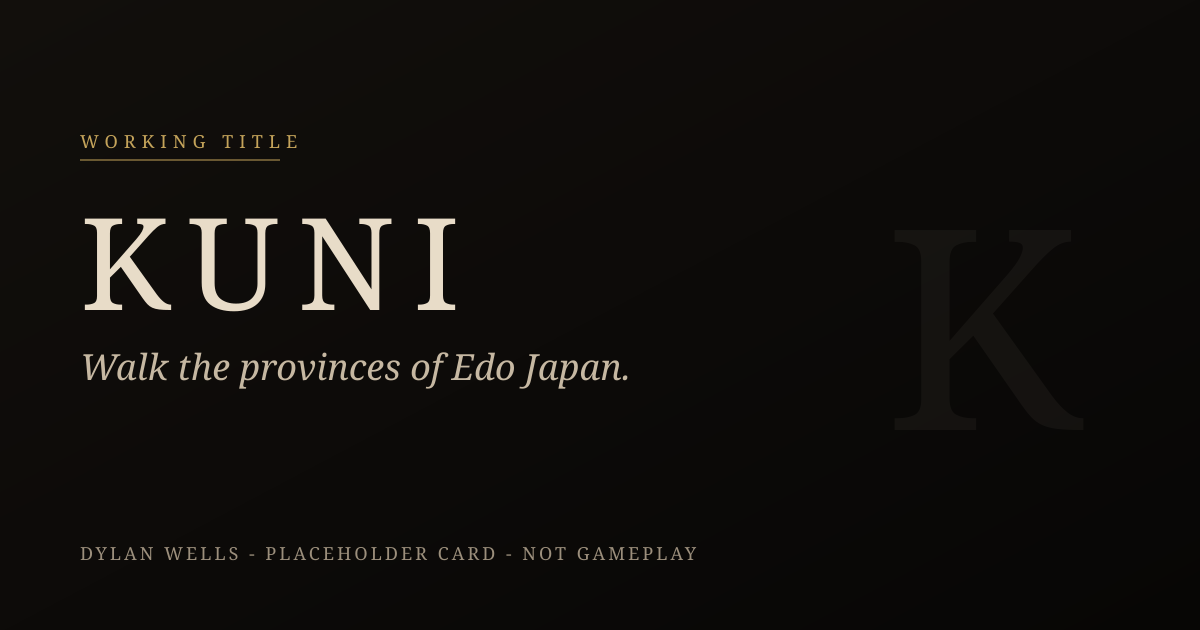
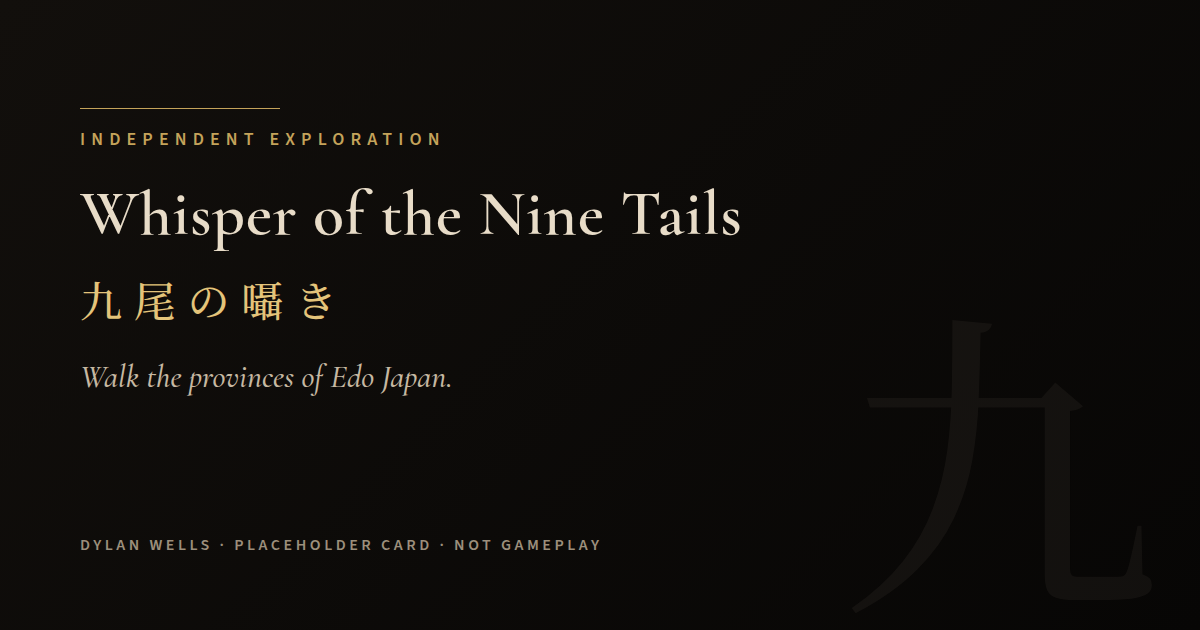
Rename storefront from Kuni to Whisper of the Nine Tails
Replace the working title with the official bilingual name across
user-facing copy and SEO, while keeping the GitHub/Cloudflare project
as kuni-storefront and leaving historical kuni (provinces) intact.

diff --git a/src/styles/global.css b/src/styles/global.css
@@ -161,19 +161,17 @@ main {
   display: flex;
   flex-direction: column;
   font-family: var(--font-display);
-  font-size: 1.35rem;
-  letter-spacing: 0.18em;
-  text-transform: uppercase;
-  line-height: 1;
+  font-size: 1.05rem;
+  letter-spacing: 0.04em;
+  line-height: 1.15;
 }
 
 .brand-note {
-  margin-top: 0.28rem;
-  font-family: var(--font-body);
-  font-size: 0.62rem;
+  margin-top: 0.22rem;
+  font-family: var(--font-jp);
+  font-size: 0.68rem;
   letter-spacing: 0.16em;
-  color: var(--paper-dim);
-  text-transform: uppercase;
+  color: var(--gold);
 }
 
 .site-nav {
@@ -325,7 +323,7 @@ main {
 
 .hero-copy {
   position: relative;
-  max-width: 38rem;
+  max-width: 42rem;
 }
 
 .eyebrow {
@@ -345,6 +343,22 @@ main {
   letter-spacing: 0.08em;
   line-height: 0.9;
   text-transform: uppercase;
+}
+
+.hero .display-title {
+  font-size: clamp(2.45rem, 6.4vw, 4.6rem);
+  letter-spacing: 0.02em;
+  line-height: 1.05;
+  text-transform: none;
+}
+
+.hero-title-ja {
+  margin: 0.85rem 0 0;
+  font-family: var(--font-jp);
+  font-size: clamp(1.15rem, 2.5vw, 1.7rem);
+  font-weight: 500;
+  letter-spacing: 0.32em;
+  color: var(--gold-bright);
 }
 
 .hero-tagline {
@@ -402,6 +416,16 @@ dd {
   margin: 0.25rem 0 0;
   font-family: var(--font-display);
   font-size: 1.2rem;
+}
+
+.buy-title-ja,
+.footer-mark-ja {
+  display: block;
+  margin-top: 0.2rem;
+  font-family: var(--font-jp);
+  font-size: 0.92rem;
+  letter-spacing: 0.18em;
+  color: var(--gold);
 }
 
 .section {
@@ -671,10 +695,14 @@ dd {
 }
 
 .footer-mark {
-  margin: 0 0 0.4rem;
+  margin: 0;
   font-family: var(--font-display);
-  letter-spacing: 0.22em;
-  text-transform: uppercase;
+  font-size: 1.2rem;
+  letter-spacing: 0.04em;
+}
+
+.footer-mark-ja {
+  margin: 0.25rem 0 0.55rem;
 }
 
 .footer-copy,
@@ -713,6 +741,11 @@ dd {
 }
 
 @media (max-width: 860px) {
+  .brand-word {
+    font-size: 0.92rem;
+    max-width: 14.5rem;
+  }
+
   .nav-toggle {
     display: grid;
     place-items: center;

diff --git a/src/content.ts b/src/content.ts
@@ -16,14 +16,16 @@ export const site = {
 } as const;
 
 export const game = {
-  title: "Kuni",
-  titleJa: "国",
-  workingTitle: true,
+  title: "Whisper of the Nine Tails",
+  titleJa: "九尾の囁き",
+  /** Single-character mark for the header seal, favicon, and hero atmosphere. */
+  seal: "九",
+  workingTitle: false,
   tagline: "Walk the provinces of Edo Japan.",
   pitch:
     "An independent exploration game about roads, weather, and the named kuni that once mapped the Japanese archipelago. Travel at a human pace. Read the land.",
   description:
-    "Kuni is an independent Unity game by Dylan Wells: a quiet Edo-period journey through Japan’s historical provinces. Wishlist and trailer coming soon.",
+    "Whisper of the Nine Tails (九尾の囁き) is an independent Unity game by Dylan Wells: a quiet Edo-period journey through Japan’s historical provinces. Wishlist and trailer coming soon.",
   genre: "Exploration",
   engine: "Unity",
   platforms: ["PC"],
@@ -88,7 +90,7 @@ export const about = {
   kicker: "The studio",
   title: "A quiet map, drawn by one person",
   paragraphs: [
-    "Dylan Wells is building Kuni independently. The working title comes from 国 (kuni), the historical provinces that once divided the Japanese archipelago. The game is an invitation to travel that map at walking speed: Edo-period roads, weather, and the particular character of each region.",
+    "Dylan Wells is building Whisper of the Nine Tails (九尾の囁き) independently. The game is an invitation to travel Edo-period Japan at walking speed: roads, weather, and the particular character of each region — including the named kuni, the historical provinces that once divided the archipelago.",
     "This site will change as a Steam page, trailer, and captured footage exist. Until then, the media here is atmospheric placeholder work — not screenshots, not reviews, not a store listing.",
   ],
 } as const;

diff --git a/README.md b/README.md
@@ -1,8 +1,10 @@
-# Kuni storefront
+# Whisper of the Nine Tails storefront
 
-Official marketing site for **Kuni**, an independent Edo-period exploration game by Dylan Wells.
+Official marketing site for **Whisper of the Nine Tails** (九尾の囁き), an independent Edo-period exploration game by Dylan Wells.
 
 This is a static [Astro](https://astro.build) site. All public copy, store links, and media paths live in one file: [`src/content.ts`](src/content.ts).
+
+The GitHub repository and Cloudflare project remain `kuni-storefront`.
 
 ## Edit content
 
@@ -10,7 +12,7 @@ Open `src/content.ts` and change:
 
 | Field | What it controls |
 | --- | --- |
-| `game.title`, `game.tagline`, `game.pitch` | Hero and SEO |
+| `game.title`, `game.titleJa`, `game.tagline`, `game.pitch` | Hero, bilingual title, and SEO |
 | `game.steamUrl` | Steam CTA. Leave `""` until a real `https://store.steampowered.com/...` URL exists. Empty keeps every button as **Coming soon on Steam**. |
 | `game.price` / `game.priceLabel` | Buy panel. Do not invent a number. |
 | `game.trailerUrl` | Trailer iframe. Leave empty for the placeholder slot. |
@@ -60,7 +62,7 @@ GitHub project sites need that base path so CSS, images, and in-page links resol
 2. Build command: `npm run build`
 3. Output directory: `dist`
 4. Environment variables (production):
-   - `SITE_URL` = your custom domain, e.g. `https://kuni.example`
+   - `SITE_URL` = your custom domain, e.g. `https://your-domain.example`
    - `BASE_PATH` = `/` (root domain) unless the site is served from a subpath
 
 Cloudflare will run the build on each push to `main`. No extra adapter is required; this is a static Astro site.
